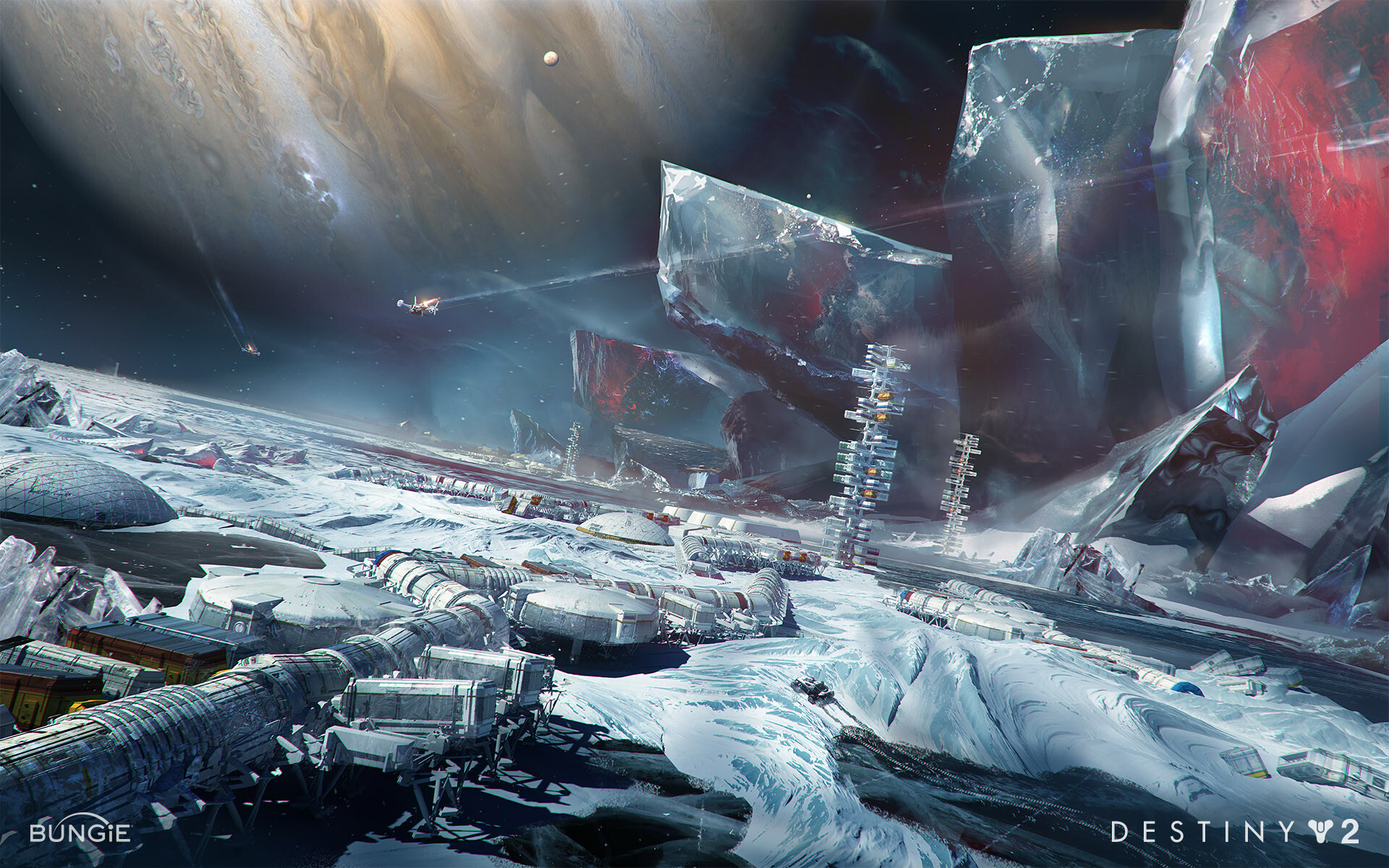
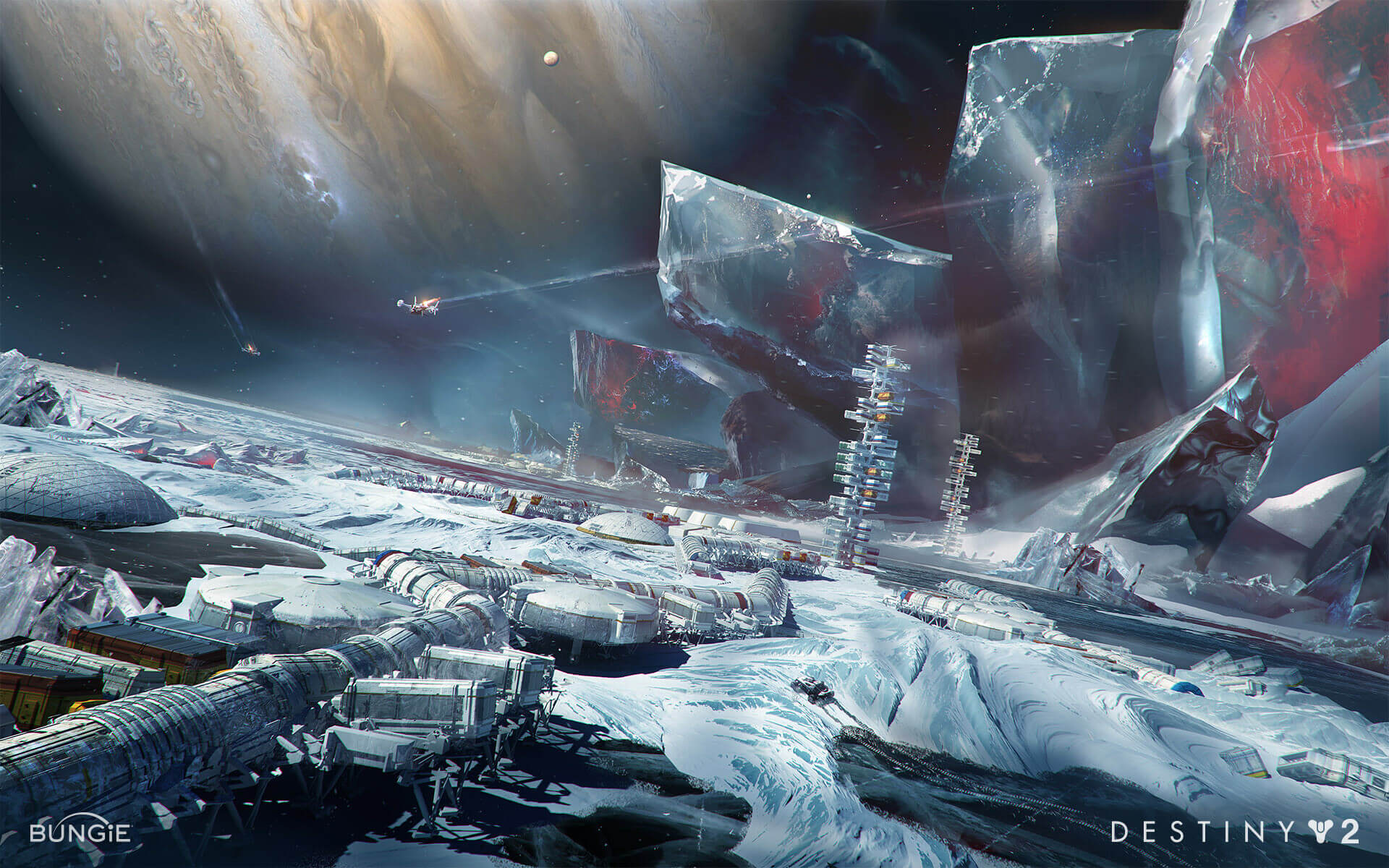
compress images

diff --git a/destinations.html b/destinations.html
@@ -8,7 +8,7 @@
   </head>
   <body>
     <nav>
-      <a href="destinations.html" class="navItem">DESTINATIONS</a>
+      <a href="" class="navItem">DESTINATIONS</a>
       <a href="triumphs.html" class="navItem">TRIUMPHS</a>
       <a href="index.html" id="logo" class="navItem">CONFLUX</a>
       <a href="quests.html" class="navItem">QUESTS</a>
